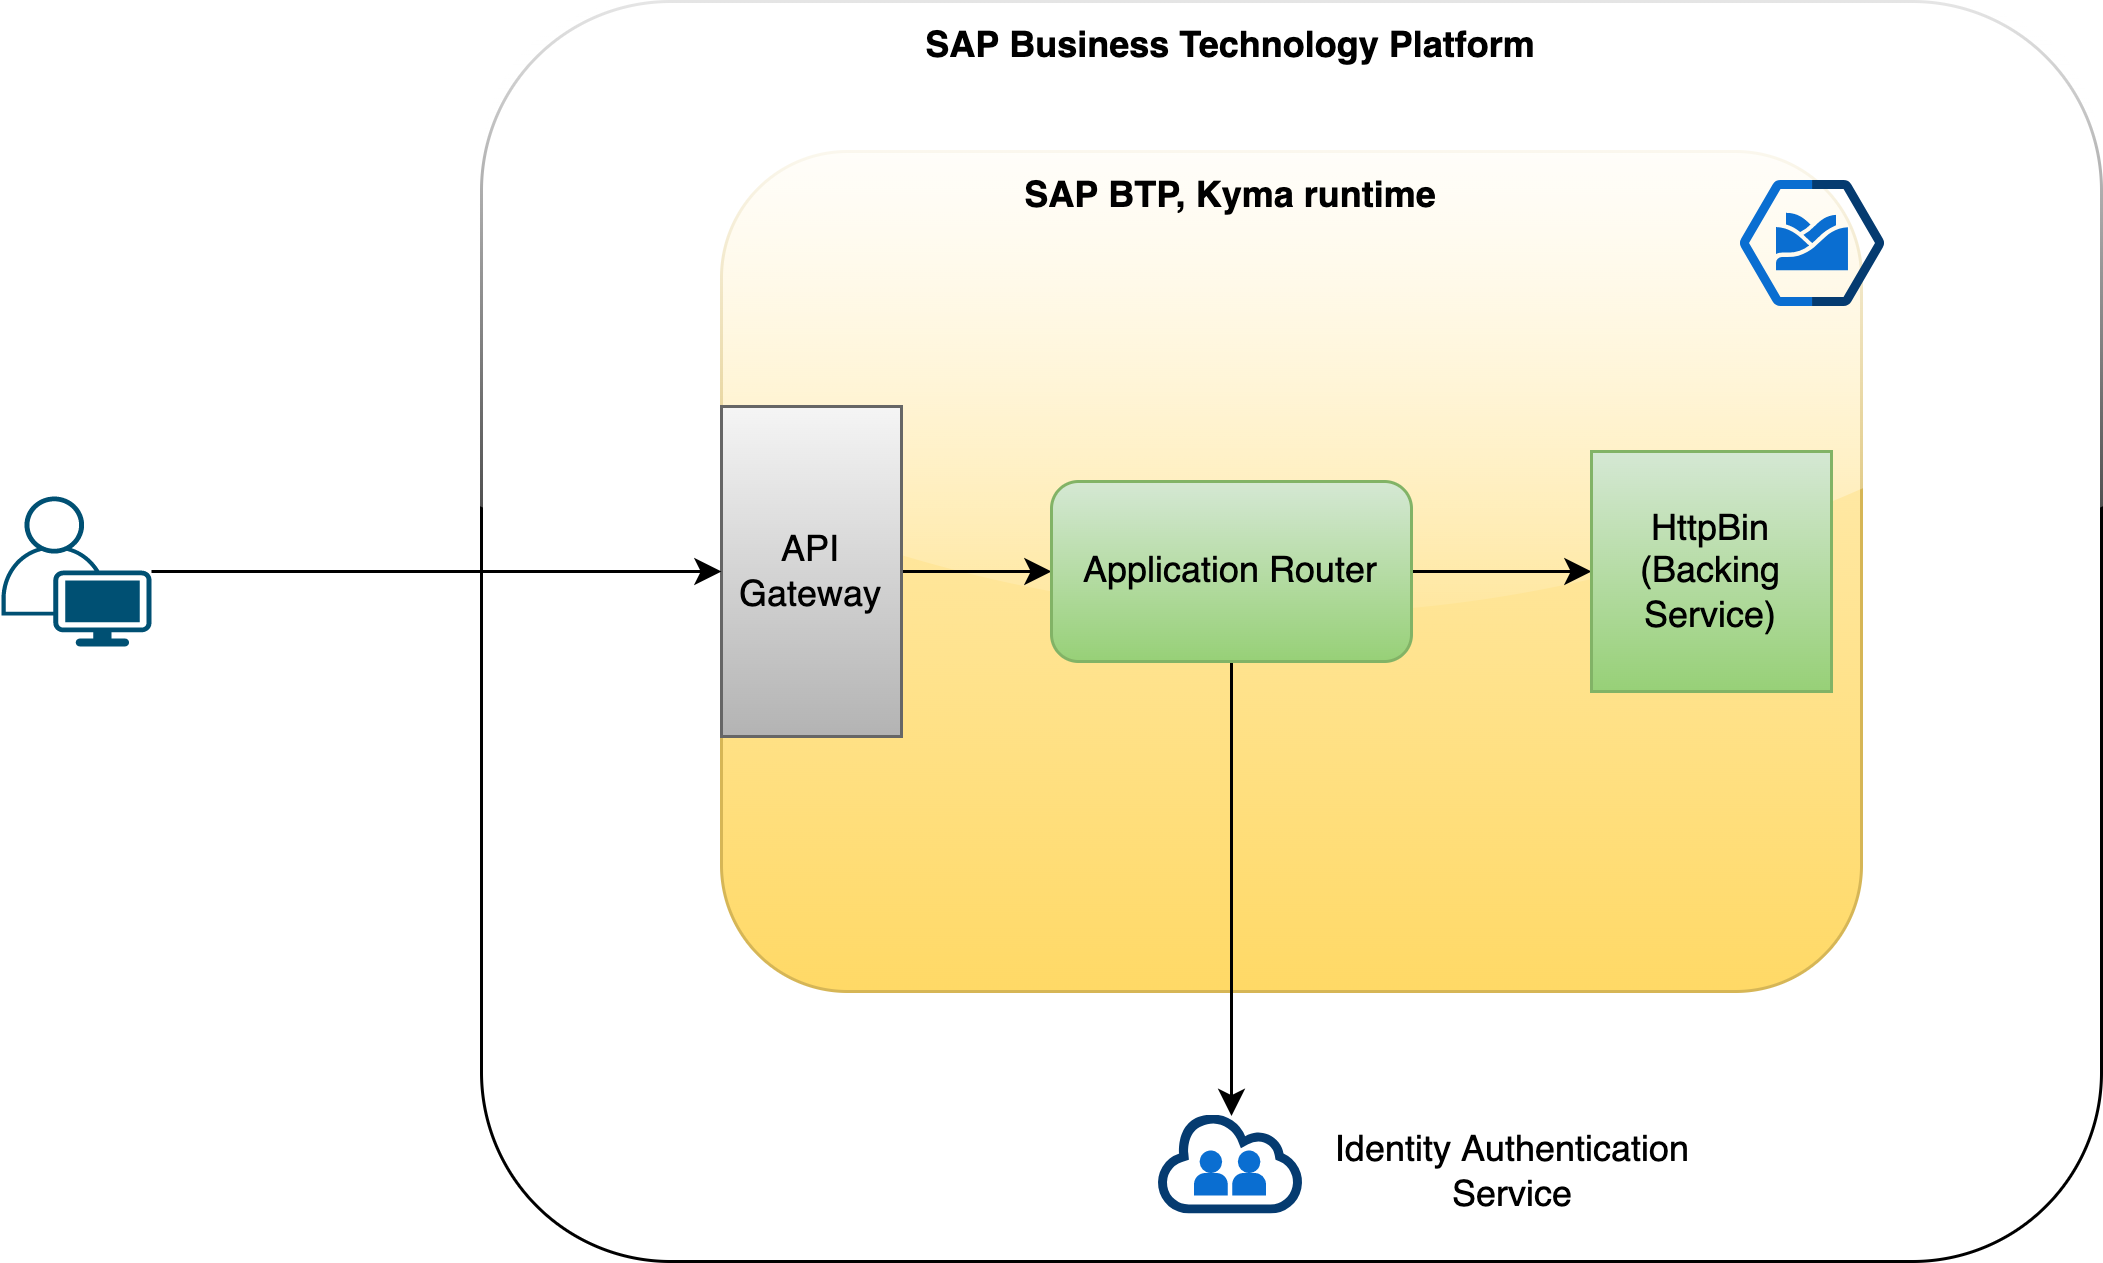
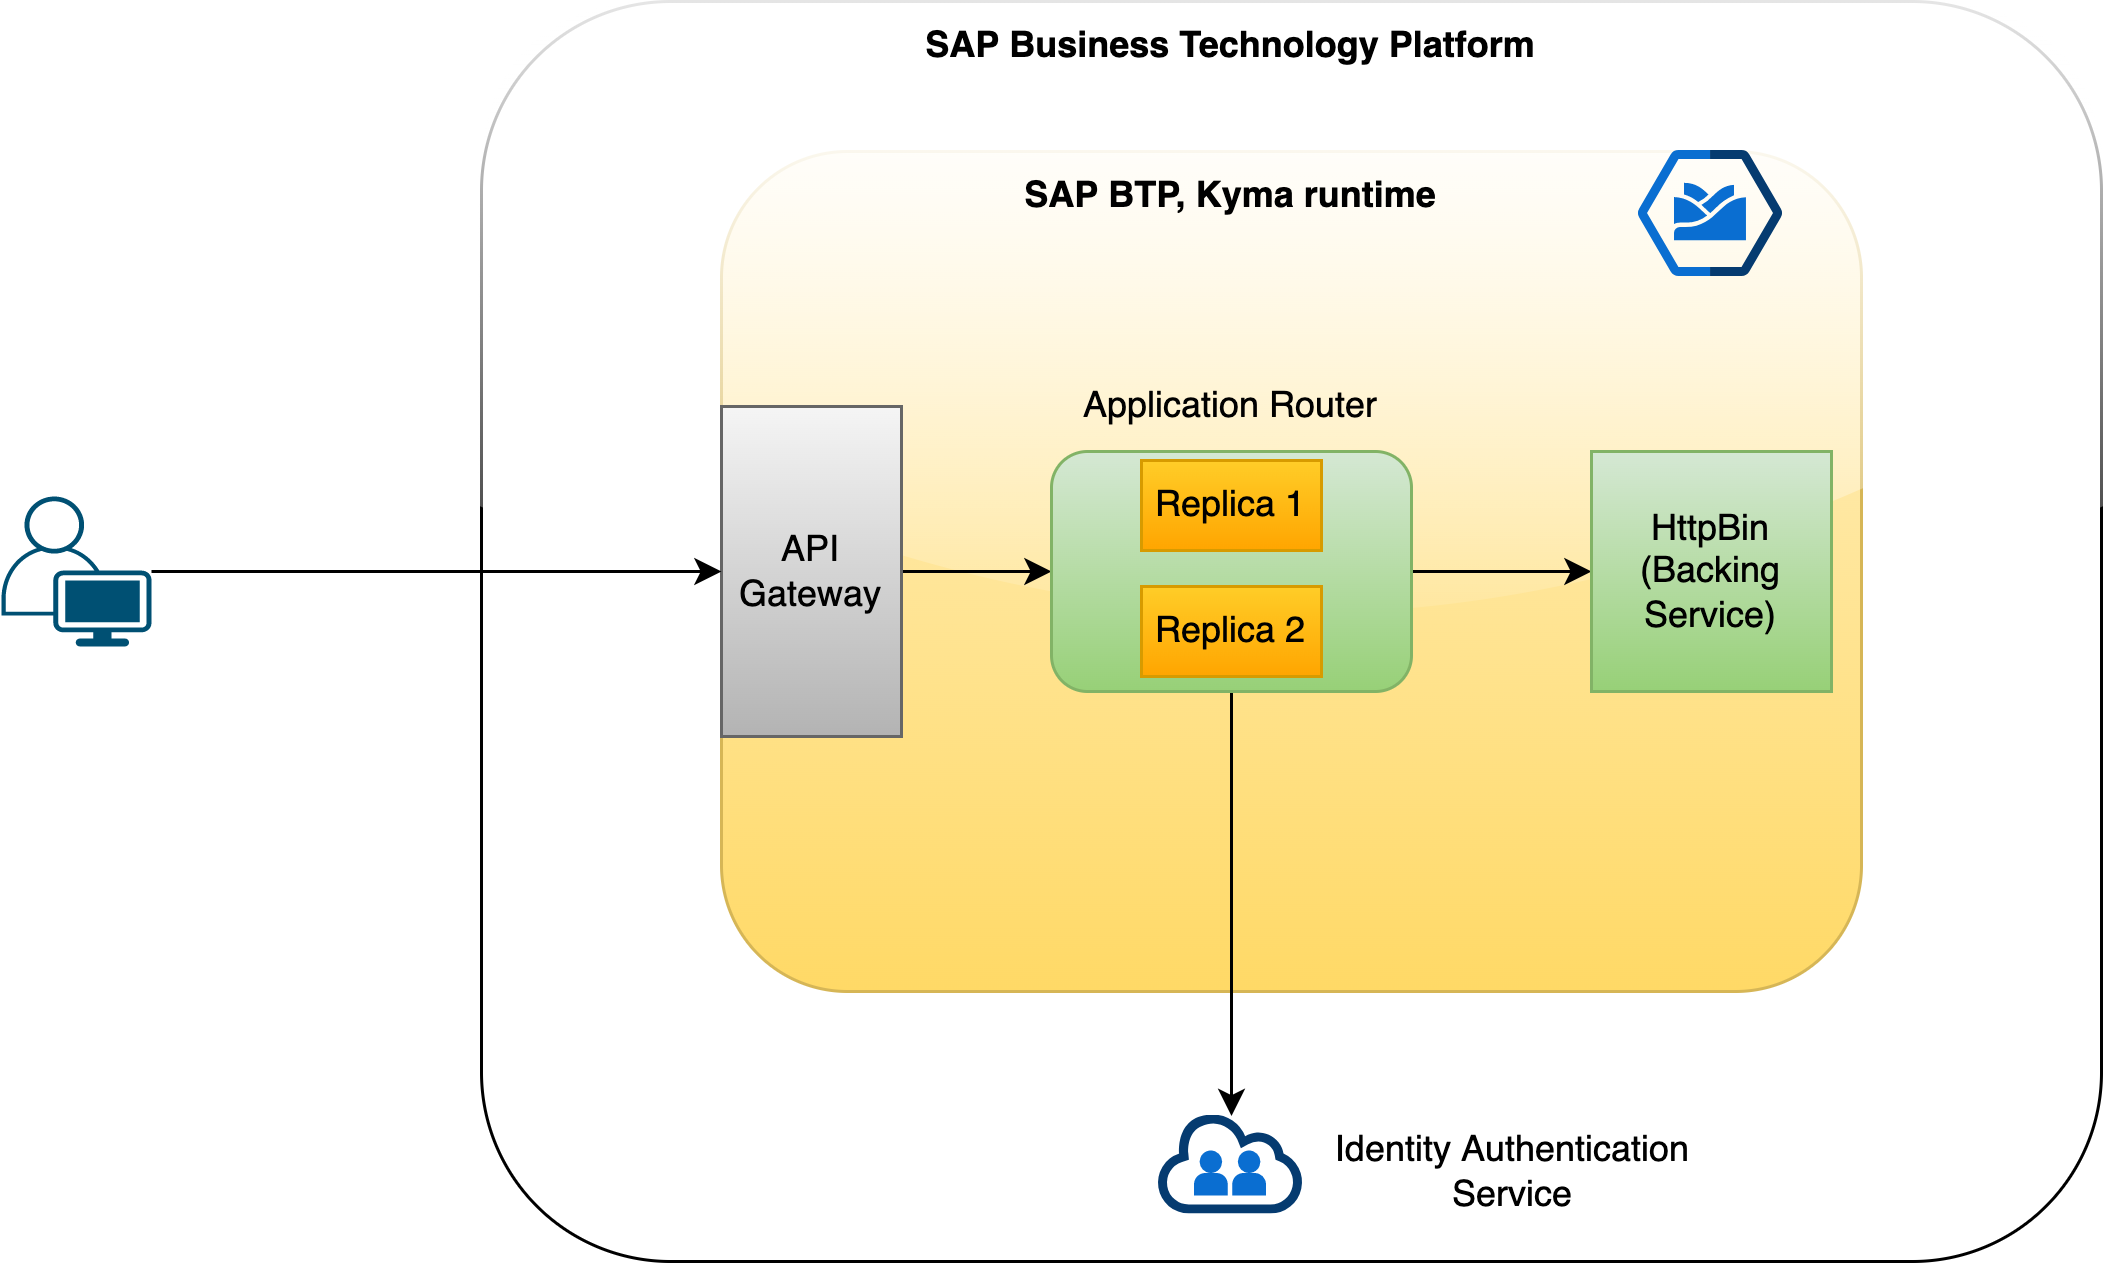
update the sample to have multiple approuter replicas

Changed region(s): [[0.4945, 0.3088, 0.68, 0.5558], [0.7727, 0.0926, 0.8963, 0.247]]

diff --git a/standalone-approuter/README.md b/standalone-approuter/README.md
@@ -29,7 +29,9 @@ We will deploy an approuter, expose it over the internet via APIRule. It will be
 
 As a simple backend, we will use an HttpBin application that returns the request headers as a response. Good for understanding flows and troubleshooting.
 
-![scenario](assets/scenario.png)
+![scenario](assets/scenario.svg)
+
+> Note: Standalone approuter is deployed with 2 replicas. Session stickiness is acheived by configuring the [Destination rule](k8s/deployment.yaml)
 
 ## Prerequisites
 
